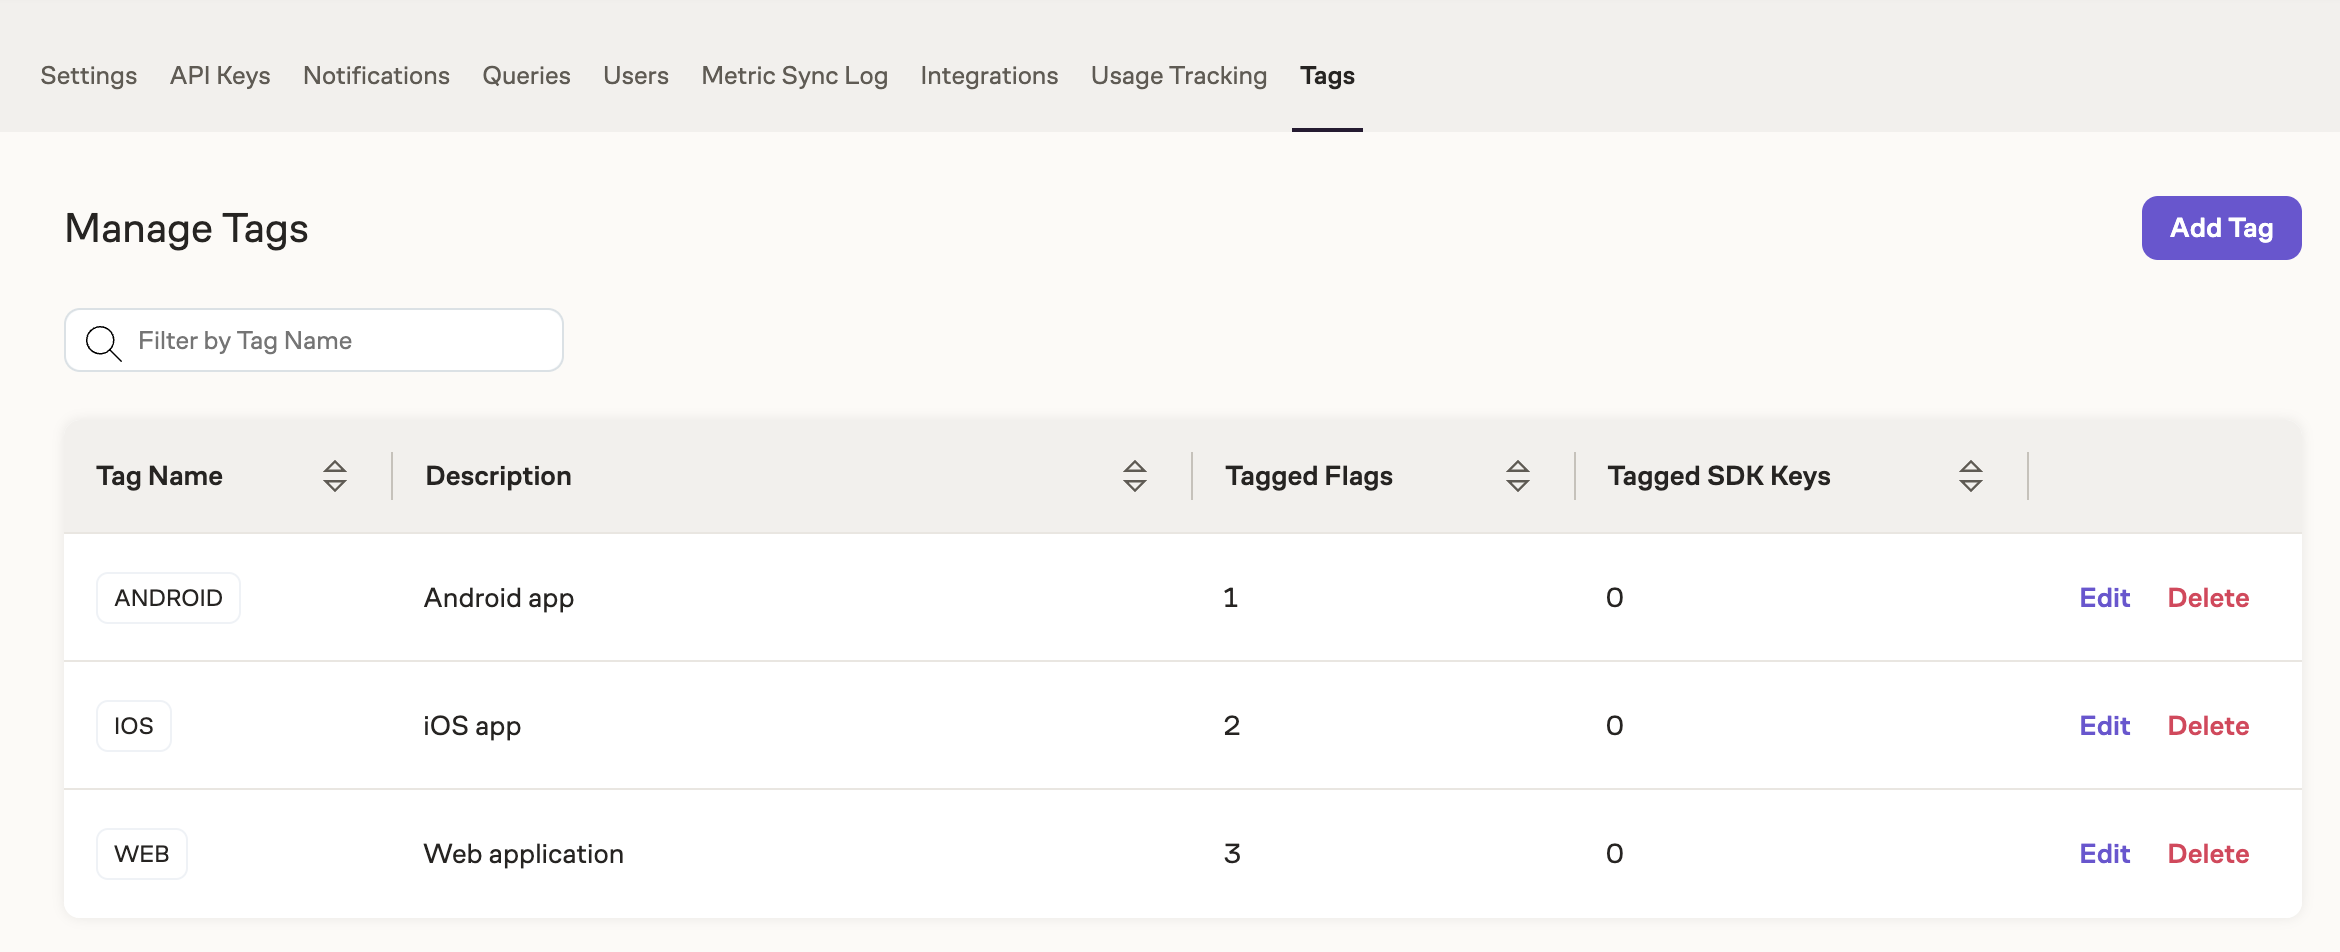
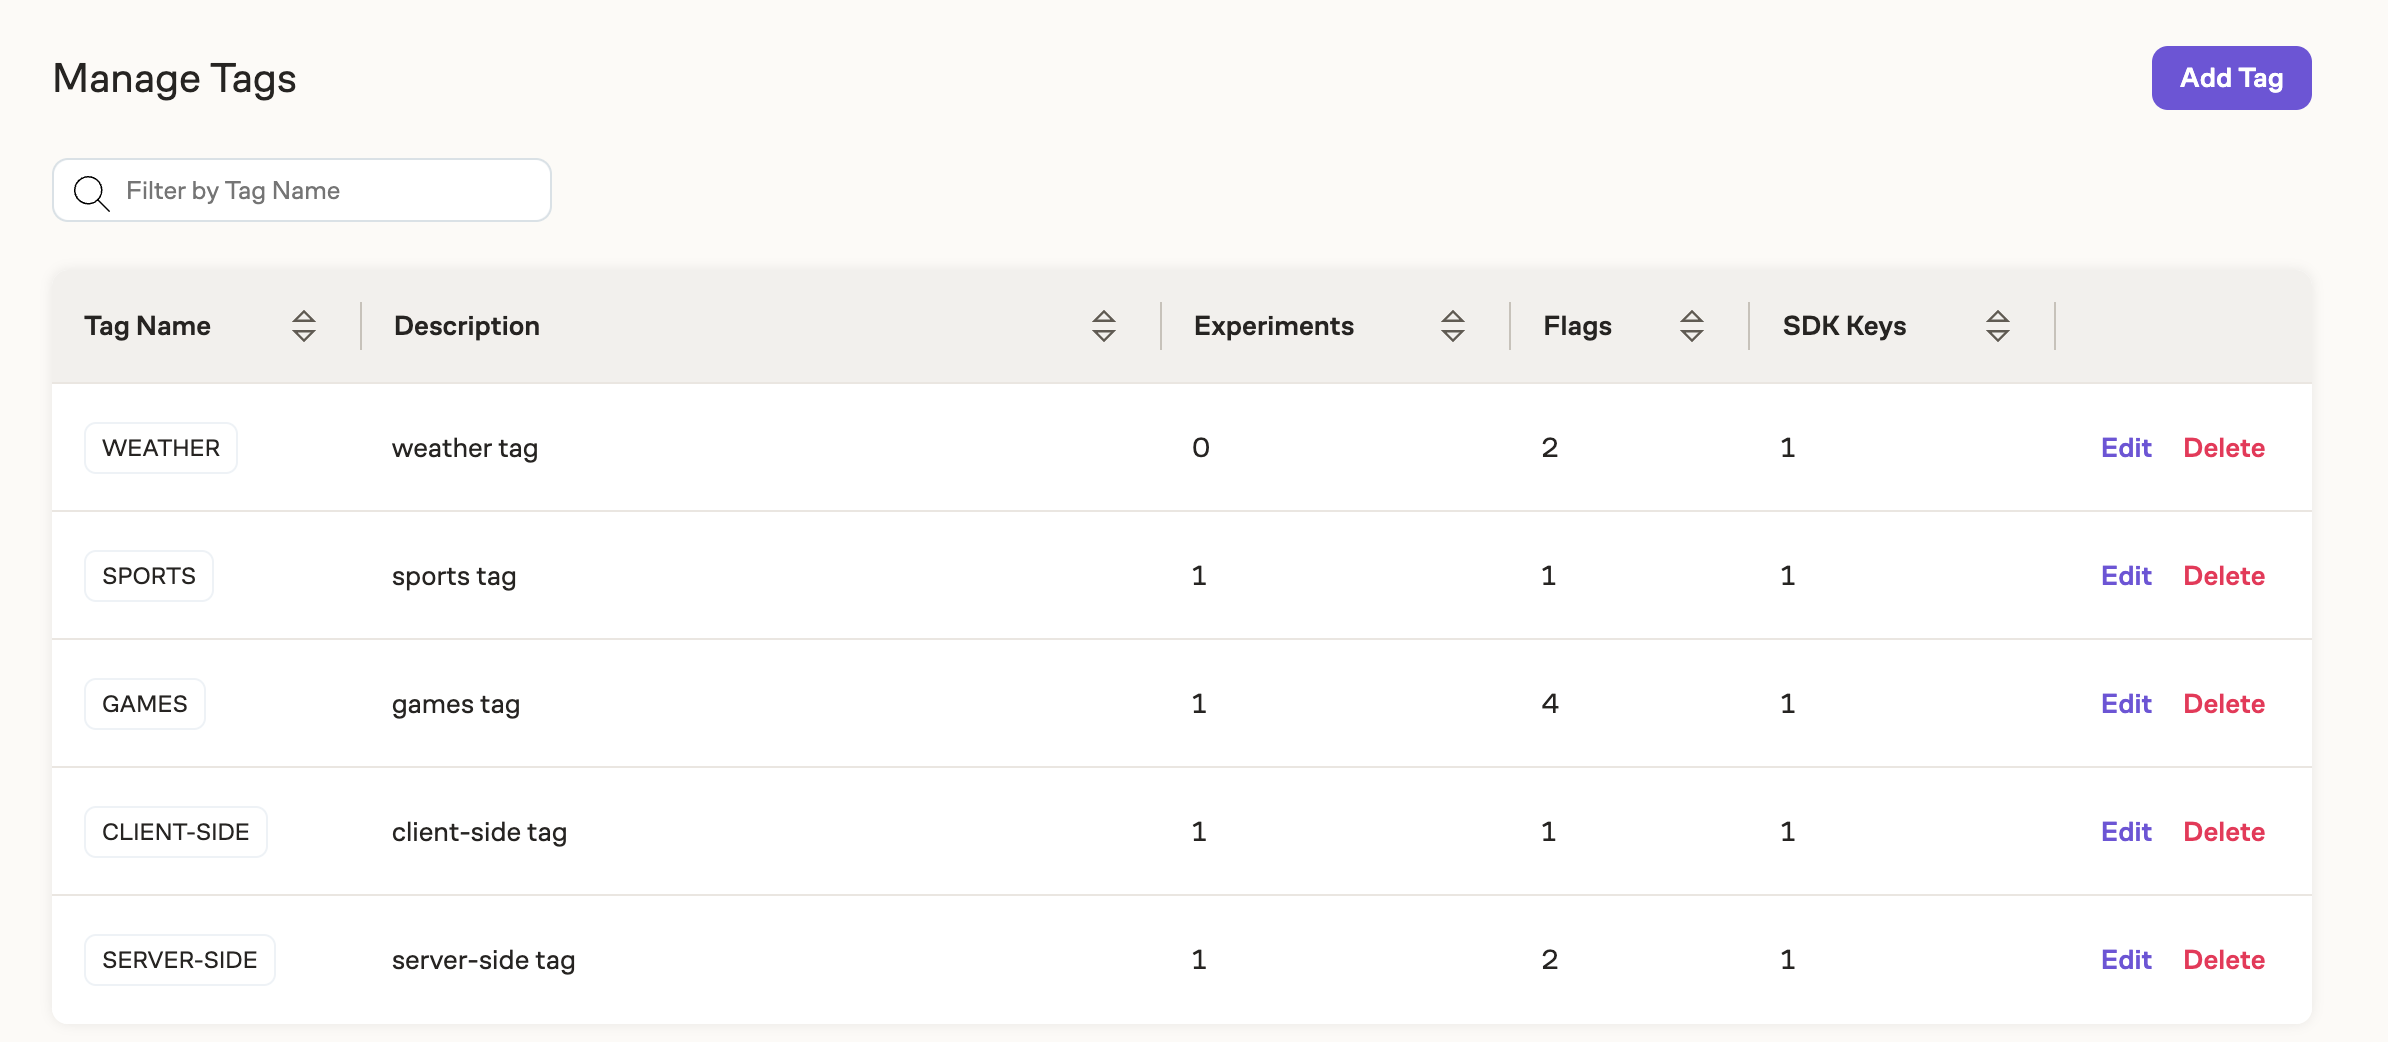
Add experiment tags page (#644)

diff --git a/docs/experiment-analysis/experiment-tags.md b/docs/experiment-analysis/experiment-tags.md
@@ -1,0 +1,31 @@
+# Experiment tags
+
+Tags allow you to organize your experiments in the Analysis and Insights sections. This makes it easier to filter and see results from relevant experiments.
+
+## Creating and managing tags
+
+Tags can be created and managed in the Admin section. Each tag has a name and a description. 
+![Tag list in admin](/img/feature-flagging/tags/tag-list.png)
+
+Clicking edit allows you to see all experiments, SDK keys, and flags using the tag and allows you to remove them.
+
+![Tag details](/img/feature-flagging/tags/tag-details.png)
+
+## Tagging Experiments
+
+In experiments, you can optionally choose tags to add by clicking on the info icon in the header of the page. This opens a side panel where you can add and manage tags.
+
+![Adding tags to an experiment](/img/feature-flagging/tags/tags-add-experiment.png)
+
+
+## Filtering with Tags
+
+Once an experiment is tagged, the tag icon will be highlighted and tags will display on hover.
+
+![Experiment list with tags highlighted](/img/feature-flagging/tags/tags-experiment-list.png)
+
+Tags can be useful to organize your list of experiments. Use the filter button and select the appropriate tags to only see experiments with those included tags in the list.
+
+Tags can also be used to filter in the Insights section. Filter for the Aggregate Impact made by experiments with a given tag in the Performance Scorecard or drill down to specific learnings in the Knowledge Base.
+
+![Aggregate impact filtered by tags](/img/feature-flagging/tags/tags-aggregate-impact.png)
